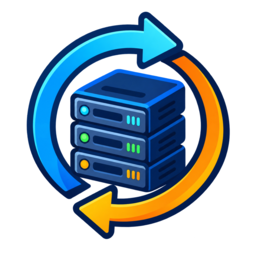
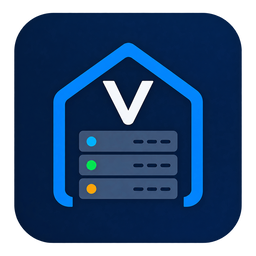
chore: refresh Homelab Commander branding

diff --git a/CHANGELOG.md b/CHANGELOG.md
@@ -25,6 +25,8 @@ format is based on Keep a Changelog and the project uses Semantic Versioning.
 
 ### Changed
 
+- Integration and App packages now use the refreshed Homelab Commander icon in
+  matching standard and HiDPI sizes.
 - Home Assistant App Ingress now uses the Supervisor default root instead of
   producing a double-slash request, and installed App documentation links to the
   public repository.

diff --git a/addon/homelab_updates/CHANGELOG.md b/addon/homelab_updates/CHANGELOG.md
@@ -2,6 +2,7 @@
 
 ## 0.2.0-dev.1
 
+- Updated the App Store icon and logo to the refreshed Homelab Commander brand.
 - Fixed the default Ingress entry so the Supervisor forwards `/` instead of `//`.
 - Restricted Ingress management routes to the Supervisor proxy while keeping the
   external API Bearer-authenticated.
